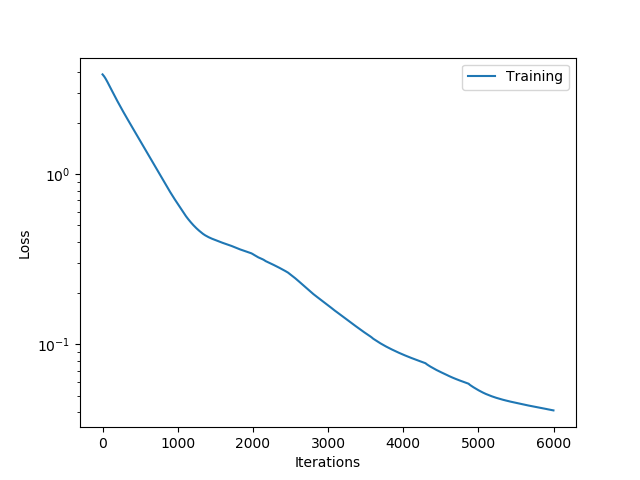
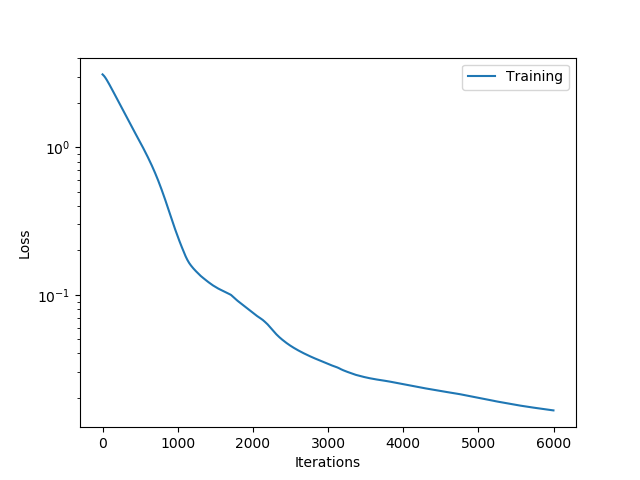
Plots directory fixed

diff --git a/trainandevaluate.py b/trainandevaluate.py
@@ -12,7 +12,7 @@ import pandas as pd
 from time import time
 from tensorflow.python.keras.callbacks import TensorBoard
 import tensorflow as tf
-from sklearn.preprocessing import scale
+from sklearn.preprocessing import scale, normalize
 import math
 import matplotlib.pyplot as plt
 import matplotlib.patches as mpatches
@@ -34,6 +34,8 @@ class AutoEncoder:
 
         self.train = preprocessing.scale(self.trainData)
         self.test = preprocessing.scale(self.testData)
+        self.train = preprocessing.normalize(self.train)
+        self.test = preprocessing.normalize(self.test)
         #self.train = self.trainData
         #self.test = self.testData
 
@@ -104,7 +106,7 @@ class AutoEncoder:
         plt.ylabel('Loss')
         plt.xlabel('Iterations')
         plt.legend(['Training'], loc='upper right')
-        plt.savefig('plots/lossvsiteration.png')
+        plt.savefig(sys.argv[7]+'plots/lossvsiteration.png')
         plt.clf()
         plt.cla()
 
